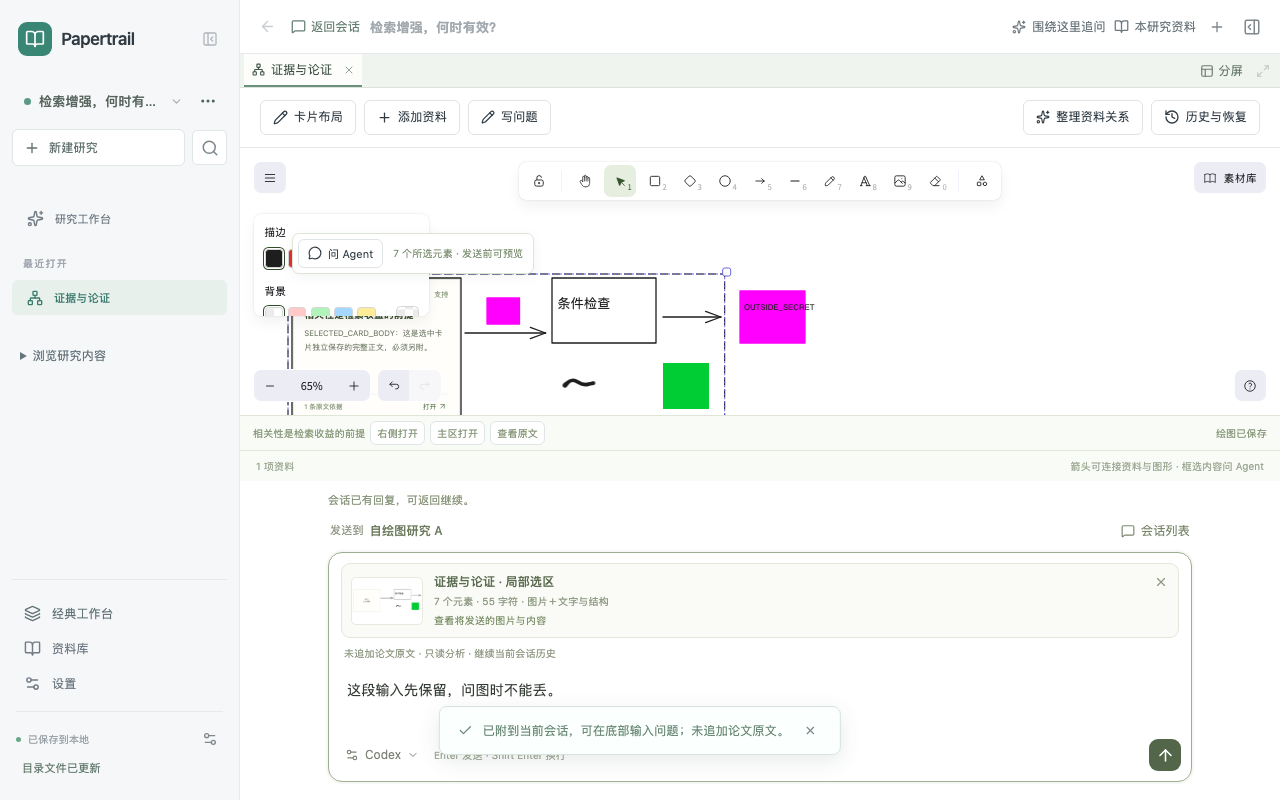
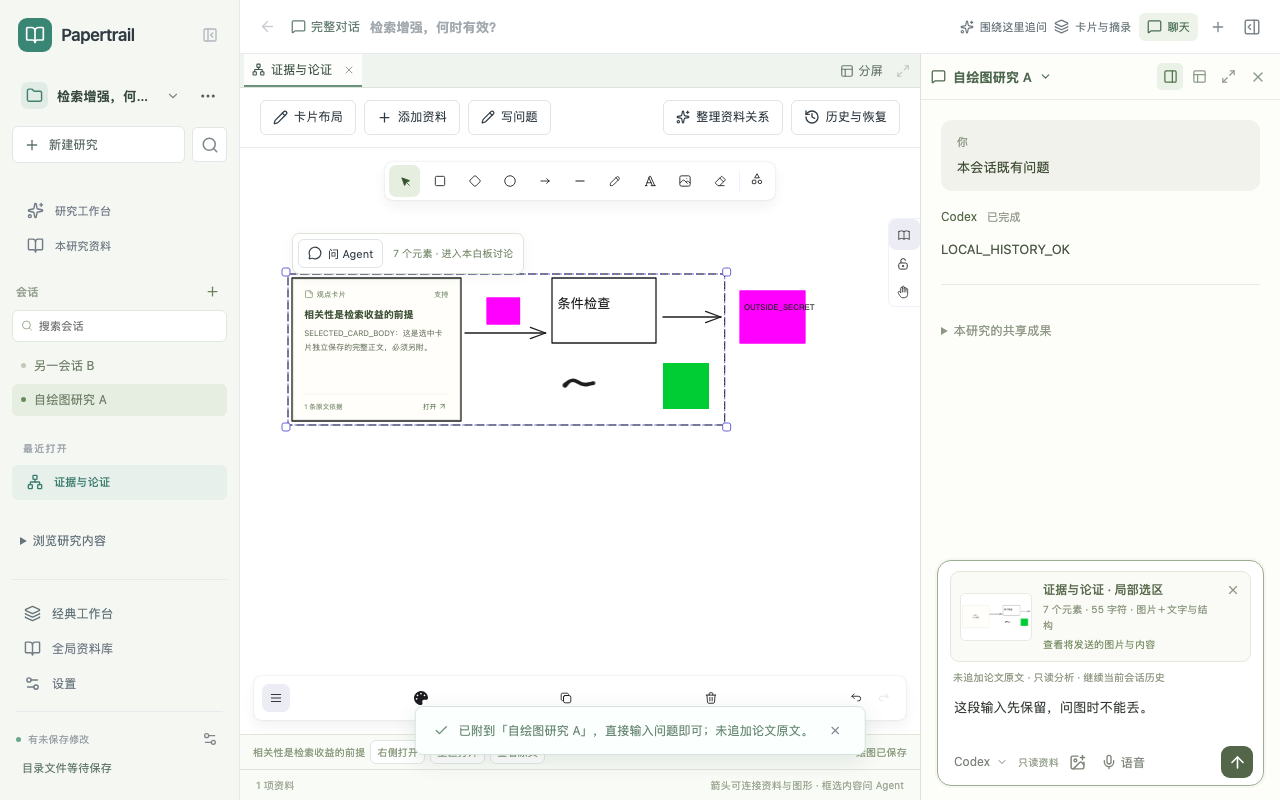
feat: 白板问 Agent 一键进入卡片或白板讨论
只选一张卡片时进入该卡片的讨论（已有则继续），其他选择进入本白板的讨论；
当前会话不可用时不再报错，直接打开侧边聊天并聚焦输入框。会话新增 anchor 字段及校验。
新增会话归属设计文档（研究会话与对象讨论），本次为其第 1 步。
drawing-question.spec 按既有迁移说明改用左侧会话列表，原断言保留，并新增单卡片用例。

diff --git a/tests/e2e/drawing-question.spec.ts b/tests/e2e/drawing-question.spec.ts
@@ -6,6 +6,7 @@ import type { DrawingScene } from '../../src/domain/drawing';
 import type { ResearchAgentInput } from '../../src/domain/research-agent';
 import type { WorkspaceData } from '../../src/domain/types';
 import { mockProjectService } from './project-fixture';
+import { openResearchNavigation } from './knowledge-helpers';
 
 // Native drawing/export and persistence are real; these tests simulate Agent events, never vision quality.
 const shots = 'docs/agent-native-evolution/implementation/drawing-agent/screenshots';
@@ -35,6 +36,8 @@ async function start(page: Page, images = true) {
   session.viewports['drawing:board-a'] = { x: 0, y: 0, scale: .65 };
   const conversation = seed.conversations[A];
   conversation.connectionId = 'codex'; conversation.contextIds = []; conversation.input = '这段输入先保留，问图时不能丢。'; conversation.title = '自绘图研究 A';
+  // A is this board's thread, so selections beyond one card continue here.
+  conversation.anchor = { kind: 'board', id: 'board-a' };
   conversation.researchFocus = { ref: { kind: 'draft', id: 'draft-a' }, title: '旧稿目标', body: '不应被问图覆盖' };
   const createdAt = '2026-10-21T00:00:00.000Z';
   seed.conversations[B] = { id: B, researchId: 'research-a', title: '另一会话 B', connectionId: 'codex', contextIds: [], requestIds: ['other-history'], input: 'OTHER_SESSION_SECRET_INPUT', createdAt };
@@ -108,9 +111,10 @@ async function selectAndAttach(page: Page) {
   return (await data(page)).conversations[A].drawingQuestion!;
 }
 const response = () => [{ type: 'delta', text: '受控绘图回答：条件检查应先核对输入，所画箭头不是已证实因果。' }, { type: 'done', model: 'controlled-drawing-e2e', nativeSessionId: 'controlled-drawing-session', readPages: [] }].map(event => JSON.stringify(event)).join('\n') + '\n';
+// The conversation list lives in the left sidebar; answers stay in the current chat host.
 async function openConversation(page: Page, title: string) {
-  if (!await page.getByLabel('研究会话列表', { exact: true }).isVisible()) await page.getByRole('button', { name: '会话列表', exact: true }).click();
-  await page.getByLabel('研究会话列表', { exact: true }).getByRole('button', { name: `打开会话：${title}`, exact: true }).click();
+  const sidebar = await openResearchNavigation(page);
+  await sidebar.getByRole('region', { name: '研究会话列表', exact: true }).getByRole('button', { name: `打开会话：${title}`, exact: true }).click();
 }
 
 test('真实框选与 PNG 导出进入当前会话，范围隔离、卡片正文、三个尺寸和刷新完整', async ({ page }) => {
@@ -141,7 +145,6 @@ test('真实框选与 PNG 导出进入当前会话，范围隔离、卡片正文
   expect((await data(page)).conversations[A].drawingQuestion).toEqual(question);
   await openConversation(page, '另一会话 B'); await expect(attachment(page)).toHaveCount(0); await expect(input(page)).toHaveValue('OTHER_SESSION_SECRET_INPUT');
   await openConversation(page, '自绘图研究 A'); await expect(attachment(page)).toBeVisible();
-  await page.getByRole('button', { name: '关闭右侧面板', exact: true }).click();
   await input(page).fill('解释这段自绘流程有哪些需要核对的条件。');
   await page.getByRole('button', { name: '开始研究', exact: true }).click();
   await expect.poll(() => sent.length).toBe(1);
@@ -165,6 +168,43 @@ test('真实框选与 PNG 导出进入当前会话，范围隔离、卡片正文
   await expect(page.getByLabel('这轮的绘图快照', { exact: true })).toBeVisible(); await expect(attachment(page)).toHaveCount(0);
   await page.screenshot({ path: `${shots}/current-conversation-reply-1024.png` });
   await flush(page); await page.reload(); await expect(page.getByLabel('这轮的绘图快照', { exact: true })).toBeVisible();
+});
+
+test('单张卡片一键进入该卡片讨论：当前会话不可用也不报错，再问同卡片回到同一讨论', async ({ page }) => {
+  await start(page);
+  await page.evaluate(async () => {
+    const paths = performance.getEntriesByType('resource').map(entry => entry.name), loaded = (path: string) => paths.find(name => new URL(name).pathname === path) ?? path;
+    const { workspace } = await import(loaded('/src/services/workspace.ts')), { getAsset, putAsset, contentHash } = await import(loaded('/src/data/storage.ts'));
+    const ref = workspace.getState().data.boards['board-a'].drawing!;
+    const scene: DrawingScene = JSON.parse(await (await getAsset(ref.assetId))!.text());
+    scene.elements = scene.elements.filter(element => element.id === 'resource-placement-a').map(element => ({ ...element, groupIds: [] }));
+    const blob = new Blob([JSON.stringify(scene)], { type: 'application/json' }), hash = await contentHash(await blob.arrayBuffer()), assetId = `drawing-${hash}`;
+    await putAsset(assetId, blob);
+    // An imported native thread cannot take board questions; this used to stop with an error.
+    workspace.updateData((next: WorkspaceData) => { next.boards['board-a'].drawing = { assetId, hash }; next.conversations['conversation-research-a'].nativeImported = true; });
+  });
+  await expect(drawing(page).getByRole('article', { name: '白板资料：相关性是检索收益的前提', exact: true })).toBeVisible();
+  await drawing(page).getByTestId('toolbar-selection').locator('..').click();
+  const box = (await canvas(page).boundingBox())!;
+  await page.mouse.move(box.x + 60 * .65, box.y + 175 * .65); await page.mouse.down(); await page.mouse.move(box.x + 365 * .65, box.y + 445 * .65, { steps: 12 }); await page.mouse.up();
+  await expect(drawing(page)).toContainText('进入这张卡片的讨论');
+  await drawing(page).getByRole('button', { name: '问 Agent', exact: true }).click();
+  await expect(attachment(page)).toBeVisible();
+  await expect(page.getByRole('alert')).toHaveCount(0);
+  await expect(input(page)).toBeFocused();
+  const first = await data(page), id = first.sessions['research-a'].activeConversationId!;
+  expect(id).not.toBe(A);
+  expect(first.conversations[id]).toMatchObject({ anchor: { kind: 'card', id: 'card-a' }, title: '卡片：相关性是检索收益的前提' });
+  expect(first.conversations[id].drawingQuestion?.snapshot.elements.map(element => element.id)).toEqual(['resource-placement-a']);
+  expect(first.conversations[A].drawingQuestion).toBeUndefined();
+  await page.getByRole('region', { name: '当前会话', exact: true }).getByRole('button', { name: '选择会话', exact: true }).click();
+  await page.getByRole('dialog', { name: '选择会话', exact: true }).getByRole('button', { name: '另一会话 B', exact: true }).click();
+  await drawing(page).getByRole('button', { name: '问 Agent', exact: true }).click();
+  await expect(attachment(page)).toBeVisible();
+  const second = await data(page);
+  expect(second.sessions['research-a'].activeConversationId).toBe(id);
+  expect(Object.values(second.conversations).filter(item => item.anchor?.kind === 'card' && item.anchor.id === 'card-a')).toHaveLength(1);
+  await page.screenshot({ path: `${shots}/card-thread-one-click-1440.png` });
 });
 
 test('失败与重试继续使用原图快照，即使白板后来改变', async ({ page }) => {
@@ -245,8 +285,7 @@ test('看图迟到答复仍归原会话，停止及刷新保留图片和输入',
   expect((await data(page)).requests[sent[0].requestId].conversationId).toBe(A);
   await openConversation(page, '自绘图研究 A');
   await expect(page.getByLabel('这轮的绘图快照', { exact: true })).toBeVisible();
-  await page.getByRole('button', { name: '关闭右侧面板', exact: true }).click();
-  await page.getByRole('complementary', { name: '左侧导航' }).getByRole('button', { name: '证据与论证', exact: true }).click();
+  await (await openResearchNavigation(page)).getByRole('button', { name: '证据与论证', exact: true }).first().click();
   await expect(canvas(page)).toBeVisible(); const second = await selectAndAttach(page);
   await input(page).fill('停止后这个问题和图片都要保留。'); await page.getByRole('button', { name: '开始研究', exact: true }).click();
   await expect.poll(() => sent.length).toBe(2); await page.getByRole('button', { name: '停止研究', exact: true }).click();

diff --git a/src/features/board/BoardDrawing.tsx b/src/features/board/BoardDrawing.tsx
@@ -22,8 +22,8 @@ import {
   stageBoardDrawing,
   subscribeDrawingSaves,
 } from '../../services/drawing-storage';
-import { getActiveConversation, resourceExists, resourceTitle, uid, useWorkspace } from '../../services/workspace';
-import { attachDrawingQuestion } from '../../services/drawing-question';
+import { resourceExists, resourceTitle, uid, useWorkspace } from '../../services/workspace';
+import { attachDrawingQuestion, openDrawingConversation } from '../../services/drawing-question';
 import { BoardQuestionDialog, type DrawingQuestionSource } from './BoardQuestionDialog';
 import { BoardResearchActions } from './BoardResearchActions';
 import { drawingResearchSelection } from './board-research-selection';
@@ -426,9 +426,7 @@ export default function BoardDrawing({ boardId, onViewport }: { boardId: string;
       const current = actions.getState().data;
       const currentBoard = current.boards[boardId];
       if (!currentBoard) throw new Error('白板已不存在，请重新打开。');
-      const conversation = getActiveConversation(current, currentBoard.researchId);
-      if (!conversation) throw new Error('请先在当前研究中新建会话，再选择绘图问 Agent。');
-      const conversationId = conversation.id;
+      const conversationId = openDrawingConversation(currentBoard.researchId, boardId, researchSelection);
       const workspaceGeneration = actions.getGeneration();
       const capture = await captureDrawingQuestion(
         editor.getSceneElements(), editor.getAppState(), editor.getFiles(),
@@ -437,6 +435,7 @@ export default function BoardDrawing({ boardId, onViewport }: { boardId: string;
       await attachDrawingQuestion(currentBoard.researchId, boardId, {
         ...capture, conversationId, generation: workspaceGeneration,
       });
+      requestAnimationFrame(() => document.querySelector<HTMLTextAreaElement>('.research-conversation-host .research-agent-input')?.focus());
     } catch (problem) {
       setDrawingQuestionError(problem instanceof Error ? problem.message : '选区图片准备失败，请重试。');
     } finally { setDrawingQuestionBusy(false); }
@@ -518,7 +517,7 @@ export default function BoardDrawing({ boardId, onViewport }: { boardId: string;
     </div>
     {data.agentWorkbench !== false && researchSelection.elementIds.length > 0 ? <div className="drawing-local-research drawing-agent-action" style={{ left: researchSelection.left, top: researchSelection.top }} onPointerDown={event => event.stopPropagation()}>
       <button className="button" disabled={drawingQuestionBusy} onClick={() => void askDrawing()}><MessageCircle size={14} />{drawingQuestionBusy ? '正在准备选区…' : '问 Agent'}</button>
-      <small>{researchSelection.elementIds.length} 个所选元素 · 发送前可预览</small>
+      <small>{researchSelection.elementIds.length === 1 && researchSelection.placementIds.length === 1 ? '进入这张卡片的讨论' : `${researchSelection.elementIds.length} 个元素 · 进入本白板讨论`}</small>
     </div> : data.agentWorkbench === false && (researchSelection.placementIds.length > 0 || researchSelection.texts.length > 0) && <div className="drawing-local-research" style={{ left: researchSelection.left, top: researchSelection.top }} onPointerDown={event => event.stopPropagation()}>
       {researchSelection.placementIds.length > 0 && <BoardResearchActions boardId={boardId} placementIds={researchSelection.placementIds} />}
       {researchSelection.texts.length > 0 && <button className="button" onClick={() => {

diff --git a/src/services/drawing-question.ts b/src/services/drawing-question.ts
@@ -2,7 +2,7 @@ import type { DrawingSnapshot } from '../domain/types';
 import { drawingSnapshotContent, hasDrawingText, validateDrawingPng, validateDrawingQuestion } from '../domain/drawing-question';
 import { contentHash, getAsset, putAsset } from '../data/storage';
 import { getActiveConversation, uid, workspace } from './workspace';
-import { isResearchConversation } from './research-agent';
+import { createResearchConversation, isResearchConversation } from './research-agent';
 
 export { hasDrawingText };
 
@@ -19,6 +19,24 @@ export async function loadDrawingImage(snapshot: DrawingSnapshot) {
   validateDrawingPng(bytes, snapshot.image);
   if (await contentHash(bytes) !== snapshot.image.hash) throw new Error('绘图图片校验失败，未发送。');
   return new Blob([bytes], { type: 'image/png' });
+}
+
+/** One click lands in a thread: a single selected card continues that card's thread, anything else the board's. */
+export function openDrawingConversation(researchId: string, boardId: string, selection: { placementIds: string[]; elementIds: string[] }) {
+  const data = workspace.getState().data;
+  const ref = selection.elementIds.length === 1 && selection.placementIds.length === 1 ? data.placements[selection.placementIds[0]]?.resourceRef : undefined;
+  const anchor = ref?.kind === 'card' && data.cards[ref.id] ? { kind: 'card' as const, id: ref.id } : { kind: 'board' as const, id: boardId };
+  const existing = Object.values(data.conversations)
+    .filter(item => item.researchId === researchId && !item.archived && item.anchor?.kind === anchor.kind && item.anchor.id === anchor.id && isResearchConversation(data, item))
+    .sort((a, b) => (b.updatedAt ?? '').localeCompare(a.updatedAt ?? ''))[0];
+  const id = existing?.id ?? createResearchConversation(researchId, undefined, { navigate: false });
+  if (existing) workspace.selectConversation(researchId, id, { surface: 'workbench' });
+  workspace.updateData(next => {
+    if (!existing) Object.assign(next.conversations[id], { anchor, title: anchor.kind === 'card' ? `卡片：${next.cards[anchor.id].title}` : `白板：${next.boards[boardId].title}` });
+    const session = next.sessions[researchId];
+    if (session.agentChat?.mode !== 'float') session.agentChat = { ...session.agentChat, mode: 'side' };
+  });
+  return id;
 }
 
 export async function attachDrawingQuestion(researchId: string, boardId: string, capture: {
@@ -54,7 +72,7 @@ export async function attachDrawingQuestion(researchId: string, boardId: string,
     owner.drawingQuestion = { snapshot, mode: 'image' };
     delete owner.researchFocus;
   });
-  workspace.notice('已附到当前会话，可在底部输入问题；未追加论文原文。');
+  workspace.notice(`已附到「${workspace.getState().data.conversations[conversation.id].title ?? '当前会话'}」，直接输入问题即可；未追加论文原文。`);
 }
 
 export function removeDrawingQuestion(researchId: string) {

diff --git a/src/data/migrations.ts b/src/data/migrations.ts
@@ -130,6 +130,7 @@ export function migrateWorkspace(value: unknown): WorkspaceData {
     for (const search of conversation.literatureSearches ?? []) if (search.status === 'searching') { search.status = 'interrupted'; search.error = '检索因页面重新加载而中断，可按原查询重试。'; }
     if (conversation.boardSuggestionRequestId !== undefined && typeof conversation.boardSuggestionRequestId !== 'string' || conversation.boardSuggestionDismissed !== undefined && typeof conversation.boardSuggestionDismissed !== 'boolean') throw new Error('白板建议状态损坏。');
     if (conversation.boardSkill !== undefined && (!record(conversation.boardSkill) || typeof conversation.boardSkill.boardId !== 'string' || !['board', 'research'].includes(conversation.boardSkill.scope) || conversation.boardSkill.allowNewCards !== undefined && typeof conversation.boardSkill.allowNewCards !== 'boolean')) throw new Error('白板技能选择损坏，未覆盖现有数据。');
+    if (conversation.anchor !== undefined && (!record(conversation.anchor) || !['card', 'board'].includes(conversation.anchor.kind) || typeof conversation.anchor.id !== 'string')) throw new Error('会话所属卡片或白板损坏，未覆盖现有数据。');
     if (!Array.isArray(conversation.contextIds) || !Array.isArray(conversation.requestIds))
       throw new Error('对话数据不完整，未覆盖现有数据。');
     conversation.title ??= '阅读对话';

diff --git a/src/domain/types.ts b/src/domain/types.ts
@@ -591,6 +591,8 @@ export type Conversation = {
   inlineSource?: { documentId: string; pageIndex: number; evidenceId: string; draftId?: string; promoted?: boolean; operation?: ReaderOperation };
   paperBrief?: PaperBriefSnapshot;
   boardSkill?: { boardId: string; scope: 'board' | 'research'; allowNewCards?: boolean };
+  /** The card or board this thread discusses; asking from it again continues here. */
+  anchor?: { kind: 'card' | 'board'; id: string };
   boardSuggestionRequestId?: string;
   boardSuggestionDismissed?: boolean;
 };

diff --git a/docs/agent-native-evolution/conversation-redesign/conversation-model.md b/docs/agent-native-evolution/conversation-redesign/conversation-model.md
@@ -1,0 +1,66 @@
+# 会话归属：研究会话与对象讨论
+
+2026-10-23。回应用户的问题：在卡片、原文里提问，算不算"会话"？全放进会话列表会挤满，不放又找不到；大小会话怎么区分，一个研究里的会话该平铺还是分类，要不要用模型判断新建还是继续。
+
+## 一句话
+
+**会话按"问的是什么"归属，不按大小分。** 问整个研究，进研究会话；问某个具体东西（一段原文、一张卡片、一块白板），进这个东西自己的讨论，讨论挂在它身上。
+
+不按大小分，是因为提问时还不知道这次会聊两句还是二十句；问的是什么，在提问那一刻就已经确定。所以可以按固定规则直接把问题送到对应的地方，不需要模型猜，也不需要用户先选。
+
+## 两类会话
+
+| | 研究会话 | 对象讨论 |
+| --- | --- | --- |
+| 问什么 | 跨资料的问题、研究计划、写作 | 这段原文、这张卡片、这块白板 |
+| 从哪发起 | 左栏"新会话"、聊天输入框 | 原文选区"提问"、白板／卡片"问 Agent" |
+| 上下文 | 用户明确加入的材料 + 本会话历史 | 对象本身（原文另附文章简要）+ 本讨论历史；**不继承任何研究会话** |
+| 放在哪、怎么找 | 左栏会话列表 | 在对象上：原文标记、卡片和白板节点的讨论数；另有"全部讨论"汇总 |
+| 数量 | 少，几个到十几个 | 多，但不进入主列表 |
+
+"小会话"不需要单独成为一种类型。两句话的对象讨论本来就挂在对象上，不占列表；两句话的研究会话放久了会自动收起（见下文）。
+
+## 路由规则：固定、可预期、可改
+
+1. **从对象发起，就进入这个对象的讨论。** 已有讨论就接着问，没有就新建。同一张卡片总是回到同一条讨论，这就是"离这张卡片最近的会话"。
+2. **白板多选或自绘内容，进入这块白板的讨论。**
+3. **在聊天框直接输入，进入当前会话。**
+4. **发送前显示落点，并允许改。** 输入框上方显示"将发到：卡片《X》的讨论 ▾"，可以改成"新开讨论"或某个研究会话。
+
+不用决策模型判断"新建还是继续"：猜错一次就会污染上下文，用户也无法提前知道结果。固定规则、显示落点、改一下只需一次点击，比模型猜更可靠，也更好理解。
+
+## 讨论之间怎样流动
+
+- **升级：** 对象讨论聊深以后，可以"升为研究会话"，固定到左栏。原文旁问答已有 `promoted` 字段，沿用即可。
+- **带入：** 研究会话需要某条讨论的结论时，用"带入会话"把那条回答作为带引用的材料加入，不合并两边的历史。上下文只能通过这种显式操作转移，不会互相污染。
+- **沉淀：** 讨论的结果整理成卡片；卡片放上白板成为节点；节点上可以继续提问。这样形成闭环。
+
+## 组织方式：平铺还是分类
+
+- **研究会话平铺。** 按最近活动排序，可以置顶；14 天没有活动的自动收进"更早"。不做文件夹，因为对象讨论不再挤进来，列表本身就短。
+- **对象讨论不需要手工分类，对象就是分类。** 白板（知识地图）本身就是讨论的目录：每个节点挂着自己的讨论。这也就是"针对地图上每个点深入剖析"的思路。
+- **三个找回入口：** ① 在对象上看讨论数或原文标记；② 左栏"讨论"按资料、卡片、白板分组，并且可以搜索；③ `⌘K` 全局搜索覆盖全部会话。
+
+```
+左栏                                  白板节点
+研究工作台                            ┌──────────────────────┐
+本研究资料                            │ 观点卡片              │
+会话                         ＋       │ 完善架构前需要核对…   │
+  比较三种后训练方法                  │                      │
+  写结论初稿                          │ 0 条依据 · 💬 3 · 打开│
+  更早（3）▸                          └──────────────────────┘
+讨论（12）▸   按资料／卡片／白板分组
+最近打开
+```
+
+## 落地顺序
+
+| 步骤 | 内容 | 状态 |
+| --- | --- | --- |
+| 1 | 白板只选一张卡片 → 进入该卡片的讨论；其他选择 → 进入本白板的讨论；一次点击进入并聚焦输入框。会话新增 `anchor` 字段 | **已实现**（本轮） |
+| 2 | 带 `anchor` 的讨论和未升级的原文旁问答移出左栏主列表，改进"讨论"分组；卡片、白板节点显示讨论数，点击即进入 | 待确认 |
+| 3 | 输入框显示"将发到"落点，可以一次改到别处 | 待确认 |
+| 4 | "升为研究会话"和"带入会话" | 待确认 |
+| 5 | 研究会话自动收起旧项 | 待确认 |
+
+第 1 步已按本文的规则实现，但讨论目前仍显示在左栏列表中，直到第 2 步完成。

diff --git a/README.md b/README.md
@@ -2,7 +2,7 @@
 
 白板新增“绘图”模式，使用开源 Excalidraw 直接画笔、形状、文字、箭头和图片，卡片与原文入口继续复用工作区实体。字体随应用本地打包。右侧 AI 的标题、材料和输入工具已压缩，腾出更多对话高度。实现范围与验证见[绘图](docs/verification/drawing/README.md)、[AI 空间](docs/verification/ai-space-expanded/README.md)及[最新 main 集成](docs/verification/main-integration/README.md)。
 
-**自绘图也可以继续问 Agent：** 在 Agent 工作台的白板“绘图”中框选内容，点击“问 Agent”，底部原输入会附上选区预览。核对后输入问题并发送，回答留在当前会话；不强制建卡片，不追加研究 PDF。当前图片链已实测本机 Codex，其他连接按实际能力提示。历史保存当轮图片与所选卡片正文，修改画布后仍可重试。[实际能力与验收](docs/agent-native-evolution/implementation/drawing-agent/README.md)
+**自绘图也可以继续问 Agent：** 在 Agent 工作台的白板“绘图”中框选内容，点击“问 Agent”即进入对应讨论并聚焦输入框：只选一张卡片时进入这张卡片的讨论（已有则继续），其他选择进入本白板的讨论；选区预览附在输入框上，核对后输入问题发送。规则见[会话归属](docs/agent-native-evolution/conversation-redesign/conversation-model.md)；不强制建卡片，不追加研究 PDF。当前图片链已实测本机 Codex，其他连接按实际能力提示。历史保存当轮图片与所选卡片正文，修改画布后仍可重试。[实际能力与验收](docs/agent-native-evolution/implementation/drawing-agent/README.md)
 
 默认提供 **连续研究工作区**：左侧紧凑会话列表，同一段问答可在完整视图、资源侧边和浮窗之间移动，草稿与历史保持；阅读时选中文字或区域，可就地提问、翻译或整理摘要卡片，原处回查记录。固定顶栏“卡片与摘录”打开独立笔记浮窗，不必滚到论文底部。已连接的本机 Codex 可查阅本研究 PDF 并形成带引用草稿，原标签分屏、Excalidraw 与经典工作台保留。其他连接沿用实际能力，不宣称具有 Codex 的研究工具。[本轮实现与验证边界](docs/verification/continuous-workspace/README.md)。
 

diff --git a/docs/verification/continuous-workspace/existing-tests.md b/docs/verification/continuous-workspace/existing-tests.md
@@ -16,3 +16,5 @@
 经典工作台及 `tests/desktop/helpers.ts` 仍可用于专门验证旧面板路径；不应把所有新界面测试切回经典模式来绕过连续工作区验收。
 
 除明确记载已迁移和执行的项目外，以上为静态入口审计，未声称所有旧脚本已经重跑通过。新增独立验收已经走真实新界面。
+
+2026-10-23 补记：`drawing-question.spec.ts` 已按上表迁移（左侧列表选会话，不再关闭右面板），原断言全部保留；会话 A 预置为白板讨论（`anchor`），以配合新的问 Agent 归属规则（见[会话归属](../../agent-native-evolution/conversation-redesign/conversation-model.md)）。新增单卡片一键进入用例，实际运行 6/6 通过。`continuous-workspace.spec.ts` 新增侧边聊天拖宽用例，10/10 通过。
